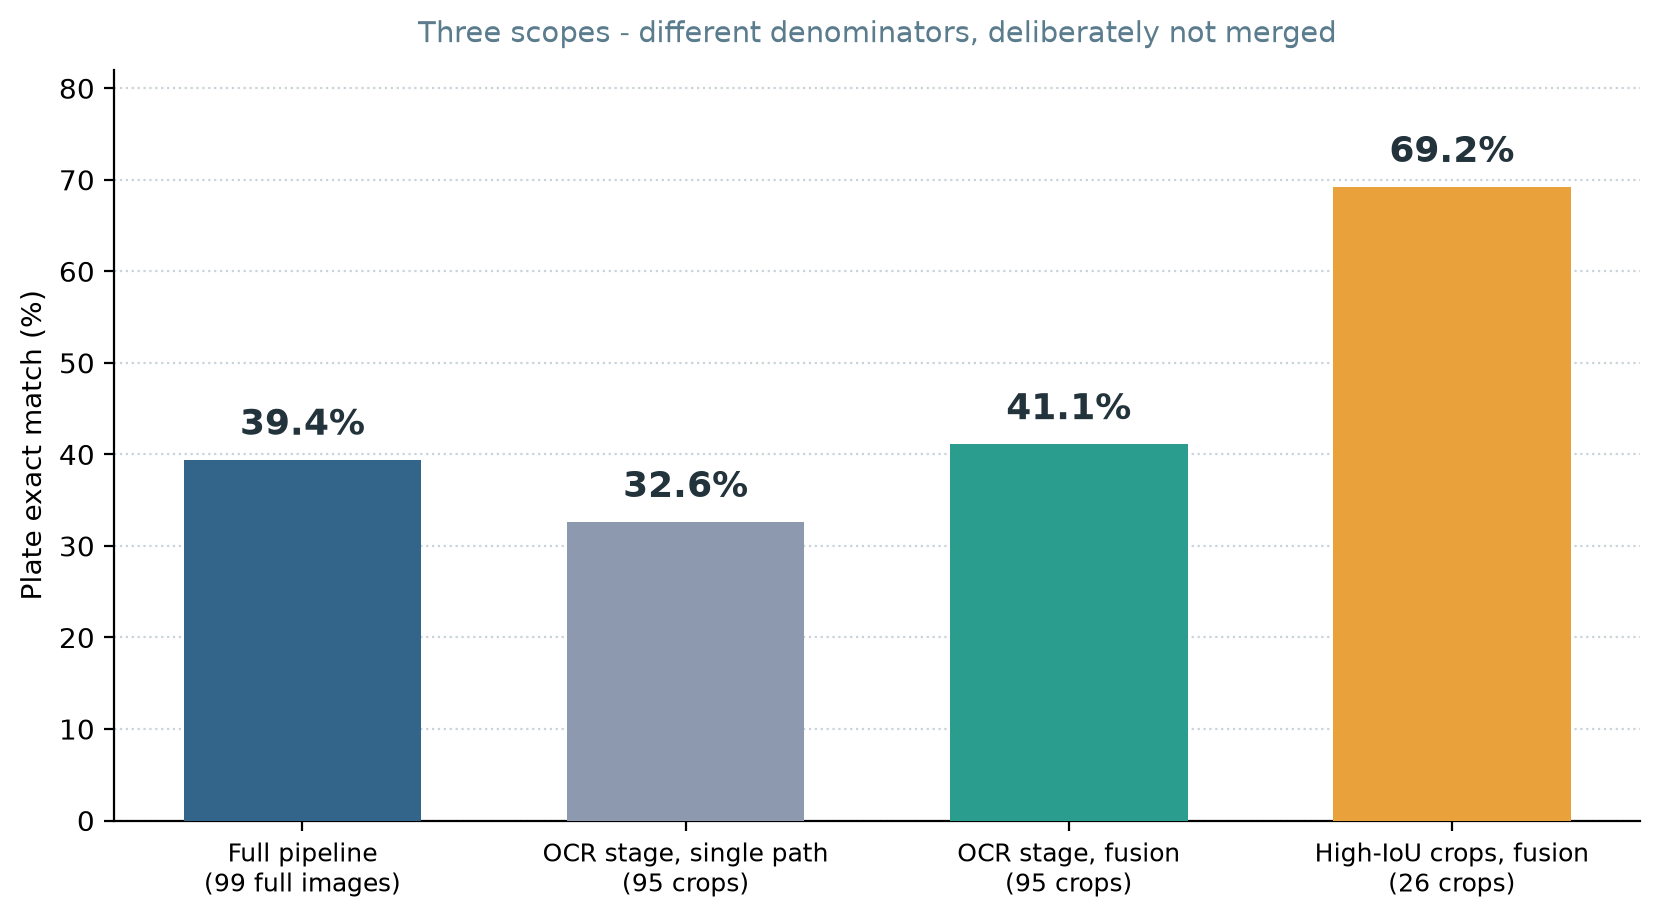
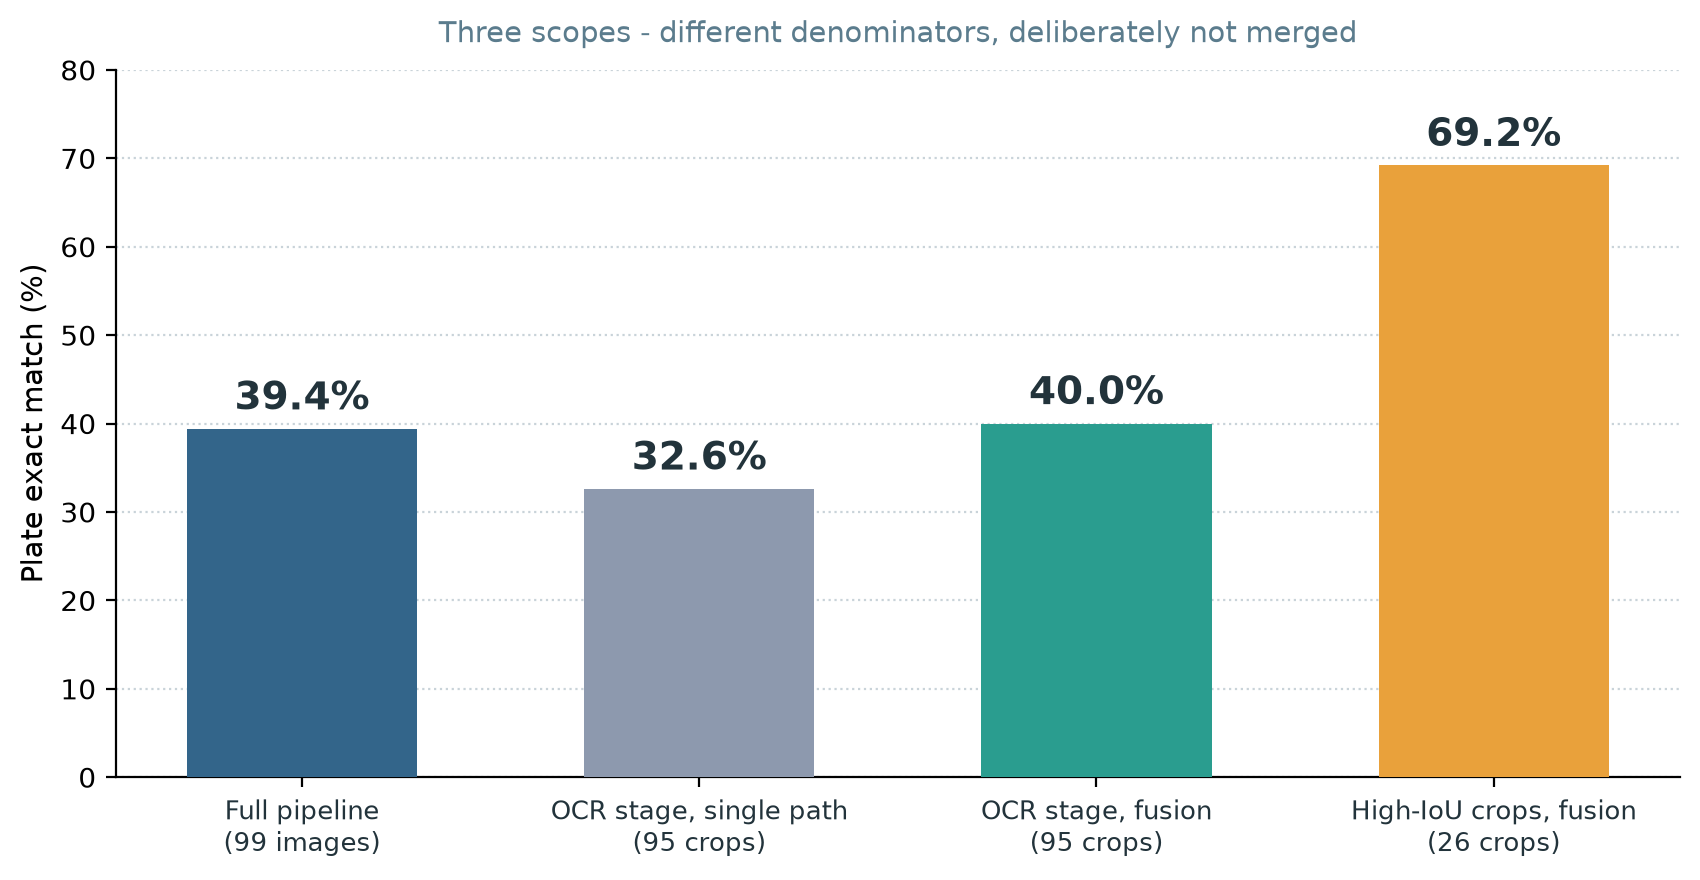
fix(slides): correct the crop-level accuracy numbers and replot two figures

diff --git a/project/slides/main.md b/project/slides/main.md
@@ -219,7 +219,7 @@ Hong Kong plates use a stroke weight, aspect ratio and surface texture that no a
 | **Ours: own split + EasyOCR per line** | **7 / 7** |
 | **§9 - rectified pipeline output** | **95 / 26 crops** |
 | Single path, own split only | 32.6% / 61.5% |
-| **Two-path fusion** | **41.1% / 69.2%** |
+| **Two-path fusion** | **40.0% / 69.2%** |
 
 ---
 
@@ -256,7 +256,7 @@ Hong Kong plates use a stroke weight, aspect ratio and surface texture that no a
 ![w:690](assets/b-results-scope.png)
 
 - **Different denominators, on purpose** - 99 images, 95 crops, 26 high-IoU crops; never merged
-- **Fusion pays** - +8.5 points on 95 crops, +7.7 on the 26 crops
+- **Fusion pays** - +7.4 points on 95 crops, +7.7 on the 26 crops
 - **Geometry pays more** - 57.7% to 69.2% once GEO-01 replaced a plain resize
 - **The upper bound** - 7/7 clean crops; the gap to 39.4% is localisation, not OCR
 
@@ -266,7 +266,7 @@ Hong Kong plates use a stroke weight, aspect ratio and surface texture that no a
 
 ![w:620](assets/b-errors.png)
 
-- **45 of 56 wrong plates are missing characters** - never presented to the reader
+- **45 of 57 wrong plates are missing characters** - never presented to the reader
 - **Why** - the crop still holds bumper and bodywork; dark regions merge into the text band
-- **Localisation is the ceiling** - of 69 images at IoU < 0.5, only 2.9% read correctly
-- **Next step** - a position prior (letters first, digits last) and a tighter plate region
+- **The other 11 are pure confusion** - same length, swapped glyphs: MZ9073 to MZ9078, VC6296 to VG6296
+- **Next step** - a position prior (letters first, digits last) fixes the confusable ones cheaply; the missing ones need a tighter crop, and that is upstream
